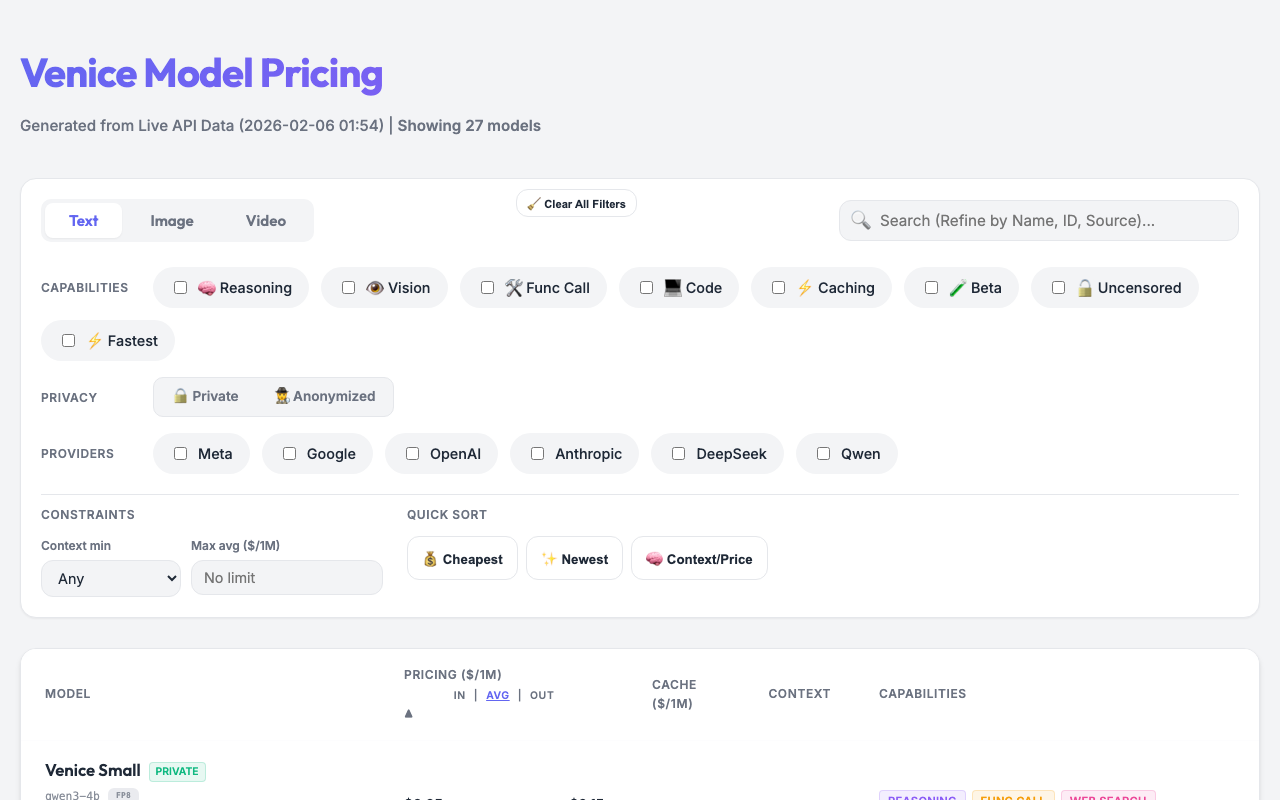
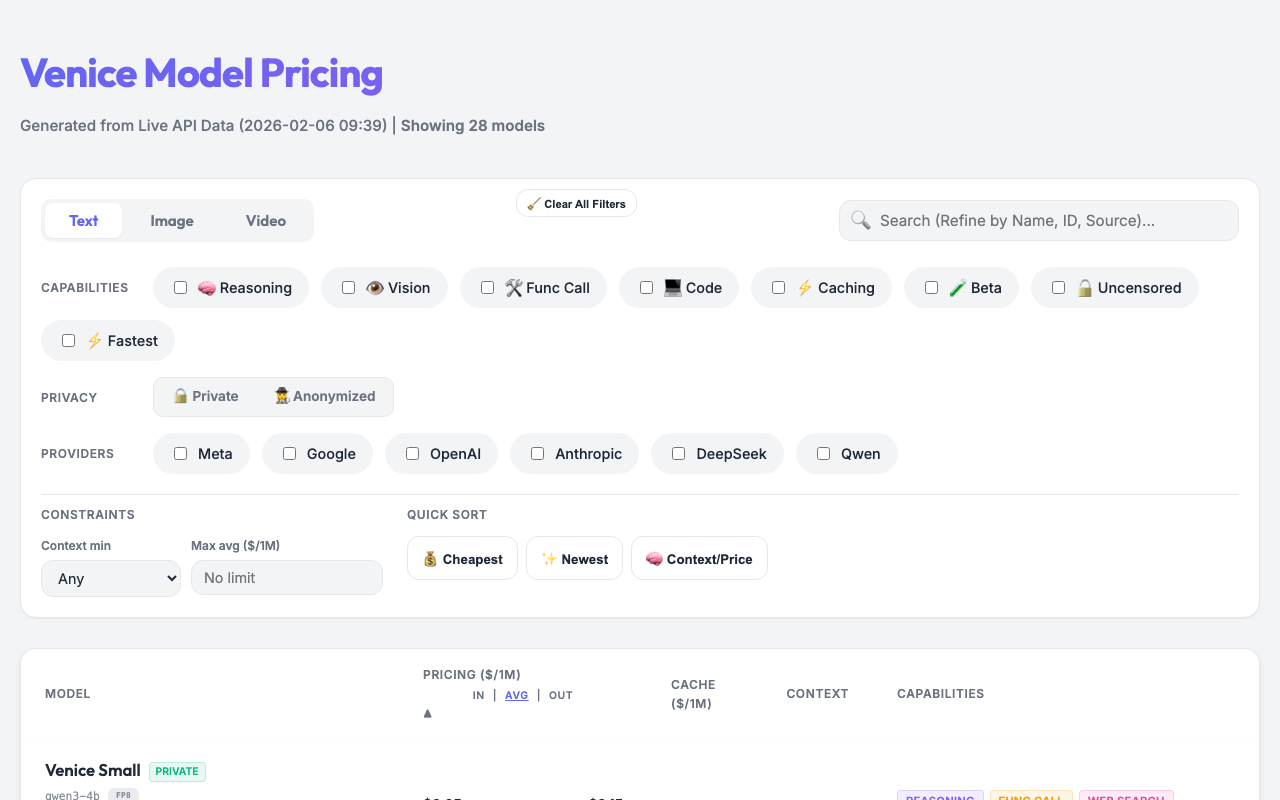
chore: automated pricing update (2026-02-06 09:39:31)
🆕 Added Models (1): claude-opus-4-6
🔄 Changed Models (5): kimi-k2-5, kimi-k2-thinking, wan-2.6-flash-image-to-video, wan-2.6-image-to-video, wan-2.6-text-to-video

diff --git a/docs/index.html b/docs/index.html
@@ -745,7 +745,7 @@
     <div class="container">
         <header>
             <h1>Venice Model Pricing</h1>
-            <div class="meta">Generated from Live API Data (2026-02-06 01:54)</div>
+            <div class="meta">Generated from Live API Data (2026-02-06 09:39)</div>
         </header>
 
         <div class="controls">
@@ -780,6 +780,7 @@
                                 <option value="160000">156k+</option>
                                 <option value="198000">193k+</option>
                                 <option value="256000">250k+</option>
+                                <option value="1000000">977k+</option>
                             </select>
                         </div>
                         <div class="range-item">
@@ -914,6 +915,53 @@
           "most_intelligent",
           "function_calling_default"
         ]
+      },
+      "object": "model",
+      "owned_by": "venice.ai",
+      "type": "text"
+    },
+    {
+      "created": 1769644800,
+      "id": "zai-org-glm-4.7-flash",
+      "model_spec": {
+        "betaModel": true,
+        "pricing": {
+          "input": {
+            "usd": 0.125,
+            "diem": 0.125
+          },
+          "output": {
+            "usd": 0.5,
+            "diem": 0.5
+          }
+        },
+        "availableContextTokens": 128000,
+        "capabilities": {
+          "optimizedForCode": false,
+          "quantization": "fp8",
+          "supportsAudioInput": false,
+          "supportsFunctionCalling": true,
+          "supportsLogProbs": false,
+          "supportsReasoning": false,
+          "supportsResponseSchema": true,
+          "supportsVideoInput": false,
+          "supportsVision": false,
+          "supportsWebSearch": true
+        },
+        "constraints": {
+          "temperature": {
+            "default": 0.7
+          },
+          "top_p": {
+            "default": 0.9
+          }
+        },
+        "description": "GLM-4.7-Flash is a fast inference variant of GLM-4.7, optimized for speed while maintaining strong reasoning capabilities. Ideal for applications requiring quick responses with good quality.",
+        "name": "GLM 4.7 Flash",
+        "modelSource": "https://huggingface.co/zai-org/GLM-4.7-Flash",
+        "offline": false,
+        "privacy": "private",
+        "traits": []
       },
       "object": "model",
       "owned_by": "venice.ai",
@@ -1446,6 +1494,61 @@
       "type": "text"
     },
     {
+      "created": 1770249600,
+      "id": "claude-opus-4-6",
+      "model_spec": {
+        "betaModel": true,
+        "pricing": {
+          "input": {
+            "usd": 6,
+            "diem": 6
+          },
+          "cache_input": {
+            "usd": 0.6,
+            "diem": 0.6
+          },
+          "cache_write": {
+            "usd": 7.5,
+            "diem": 7.5
+          },
+          "output": {
+            "usd": 30,
+            "diem": 30
+          }
+        },
+        "availableContextTokens": 1000000,
+        "capabilities": {
+          "optimizedForCode": true,
+          "quantization": "not-available",
+          "supportsAudioInput": false,
+          "supportsFunctionCalling": true,
+          "supportsLogProbs": false,
+          "supportsReasoning": true,
+          "supportsResponseSchema": true,
+          "supportsVideoInput": false,
+          "supportsVision": true,
+          "supportsWebSearch": true
+        },
+        "constraints": {
+          "temperature": {
+            "default": 0.7
+          },
+          "top_p": {
+            "default": 0.9
+          }
+        },
+        "description": "Claude Opus 4.6 is Anthropic's most capable reasoning model, building on Opus 4.5 with enhanced performance across complex software engineering, agentic workflows, and long-horizon tasks. It features a 1M token context window, improved multimodal capabilities, and stronger robustness to prompt injection.",
+        "name": "Claude Opus 4.6",
+        "modelSource": "",
+        "offline": false,
+        "privacy": "anonymized",
+        "traits": []
+      },
+      "object": "model",
+      "owned_by": "venice.ai",
+      "type": "text"
+    },
+    {
       "created": 1764979200,
       "id": "claude-opus-45",
       "model_spec": {
@@ -1634,10 +1737,10 @@
         },
         "constraints": {
           "temperature": {
-            "default": 0.7
+            "default": 1
           },
           "top_p": {
-            "default": 0.8
+            "default": 0.9
           }
         },
         "description": "Kimi K2 Thinking is Moonshot AIs most advanced open reasoning model to date, extending the K2 series into agentic, long-horizon reasoning. Built on the trillion-parameter Mixture-of-Experts (MoE) architecture introduced in Kimi K2, it activates 32 billion parameters per forward pass and supports 256 k-token context windows.",
@@ -1685,7 +1788,7 @@
         },
         "constraints": {
           "temperature": {
-            "default": 0.7
+            "default": 1
           },
           "top_p": {
             "default": 0.9
@@ -2086,53 +2189,6 @@
         "traits": [
           "default_vision"
         ]
-      },
-      "object": "model",
-      "owned_by": "venice.ai",
-      "type": "text"
-    },
-    {
-      "created": 1769644800,
-      "id": "zai-org-glm-4.7-flash",
-      "model_spec": {
-        "betaModel": true,
-        "pricing": {
-          "input": {
-            "usd": 0.125,
-            "diem": 0.125
-          },
-          "output": {
-            "usd": 0.5,
-            "diem": 0.5
-          }
-        },
-        "availableContextTokens": 128000,
-        "capabilities": {
-          "optimizedForCode": false,
-          "quantization": "fp8",
-          "supportsAudioInput": false,
-          "supportsFunctionCalling": true,
-          "supportsLogProbs": false,
-          "supportsReasoning": false,
-          "supportsResponseSchema": true,
-          "supportsVideoInput": false,
-          "supportsVision": false,
-          "supportsWebSearch": true
-        },
-        "constraints": {
-          "temperature": {
-            "default": 0.7
-          },
-          "top_p": {
-            "default": 0.9
-          }
-        },
-        "description": "GLM-4.7-Flash is a fast inference variant of GLM-4.7, optimized for speed while maintaining strong reasoning capabilities. Ideal for applications requiring quick responses with good quality.",
-        "name": "GLM 4.7 Flash",
-        "modelSource": "https://huggingface.co/zai-org/GLM-4.7-Flash",
-        "offline": false,
-        "privacy": "private",
-        "traits": []
       },
       "object": "model",
       "owned_by": "venice.ai",
@@ -2872,7 +2928,8 @@
           "high_resolution",
           "audio",
           "long_duration",
-          "open_source"
+          "open_source",
+          "venice_recommendations"
         ],
         "name": "Wan 2.6",
         "offline": false,
@@ -2913,7 +2970,8 @@
           "fast",
           "audio",
           "long_duration",
-          "open_source"
+          "open_source",
+          "venice_recommendations"
         ],
         "name": "Wan 2.6 Flash",
         "offline": false,
@@ -2957,7 +3015,8 @@
           "high_resolution",
           "audio",
           "long_duration",
-          "open_source"
+          "open_source",
+          "venice_recommendations"
         ],
         "name": "Wan 2.6",
         "offline": false,
